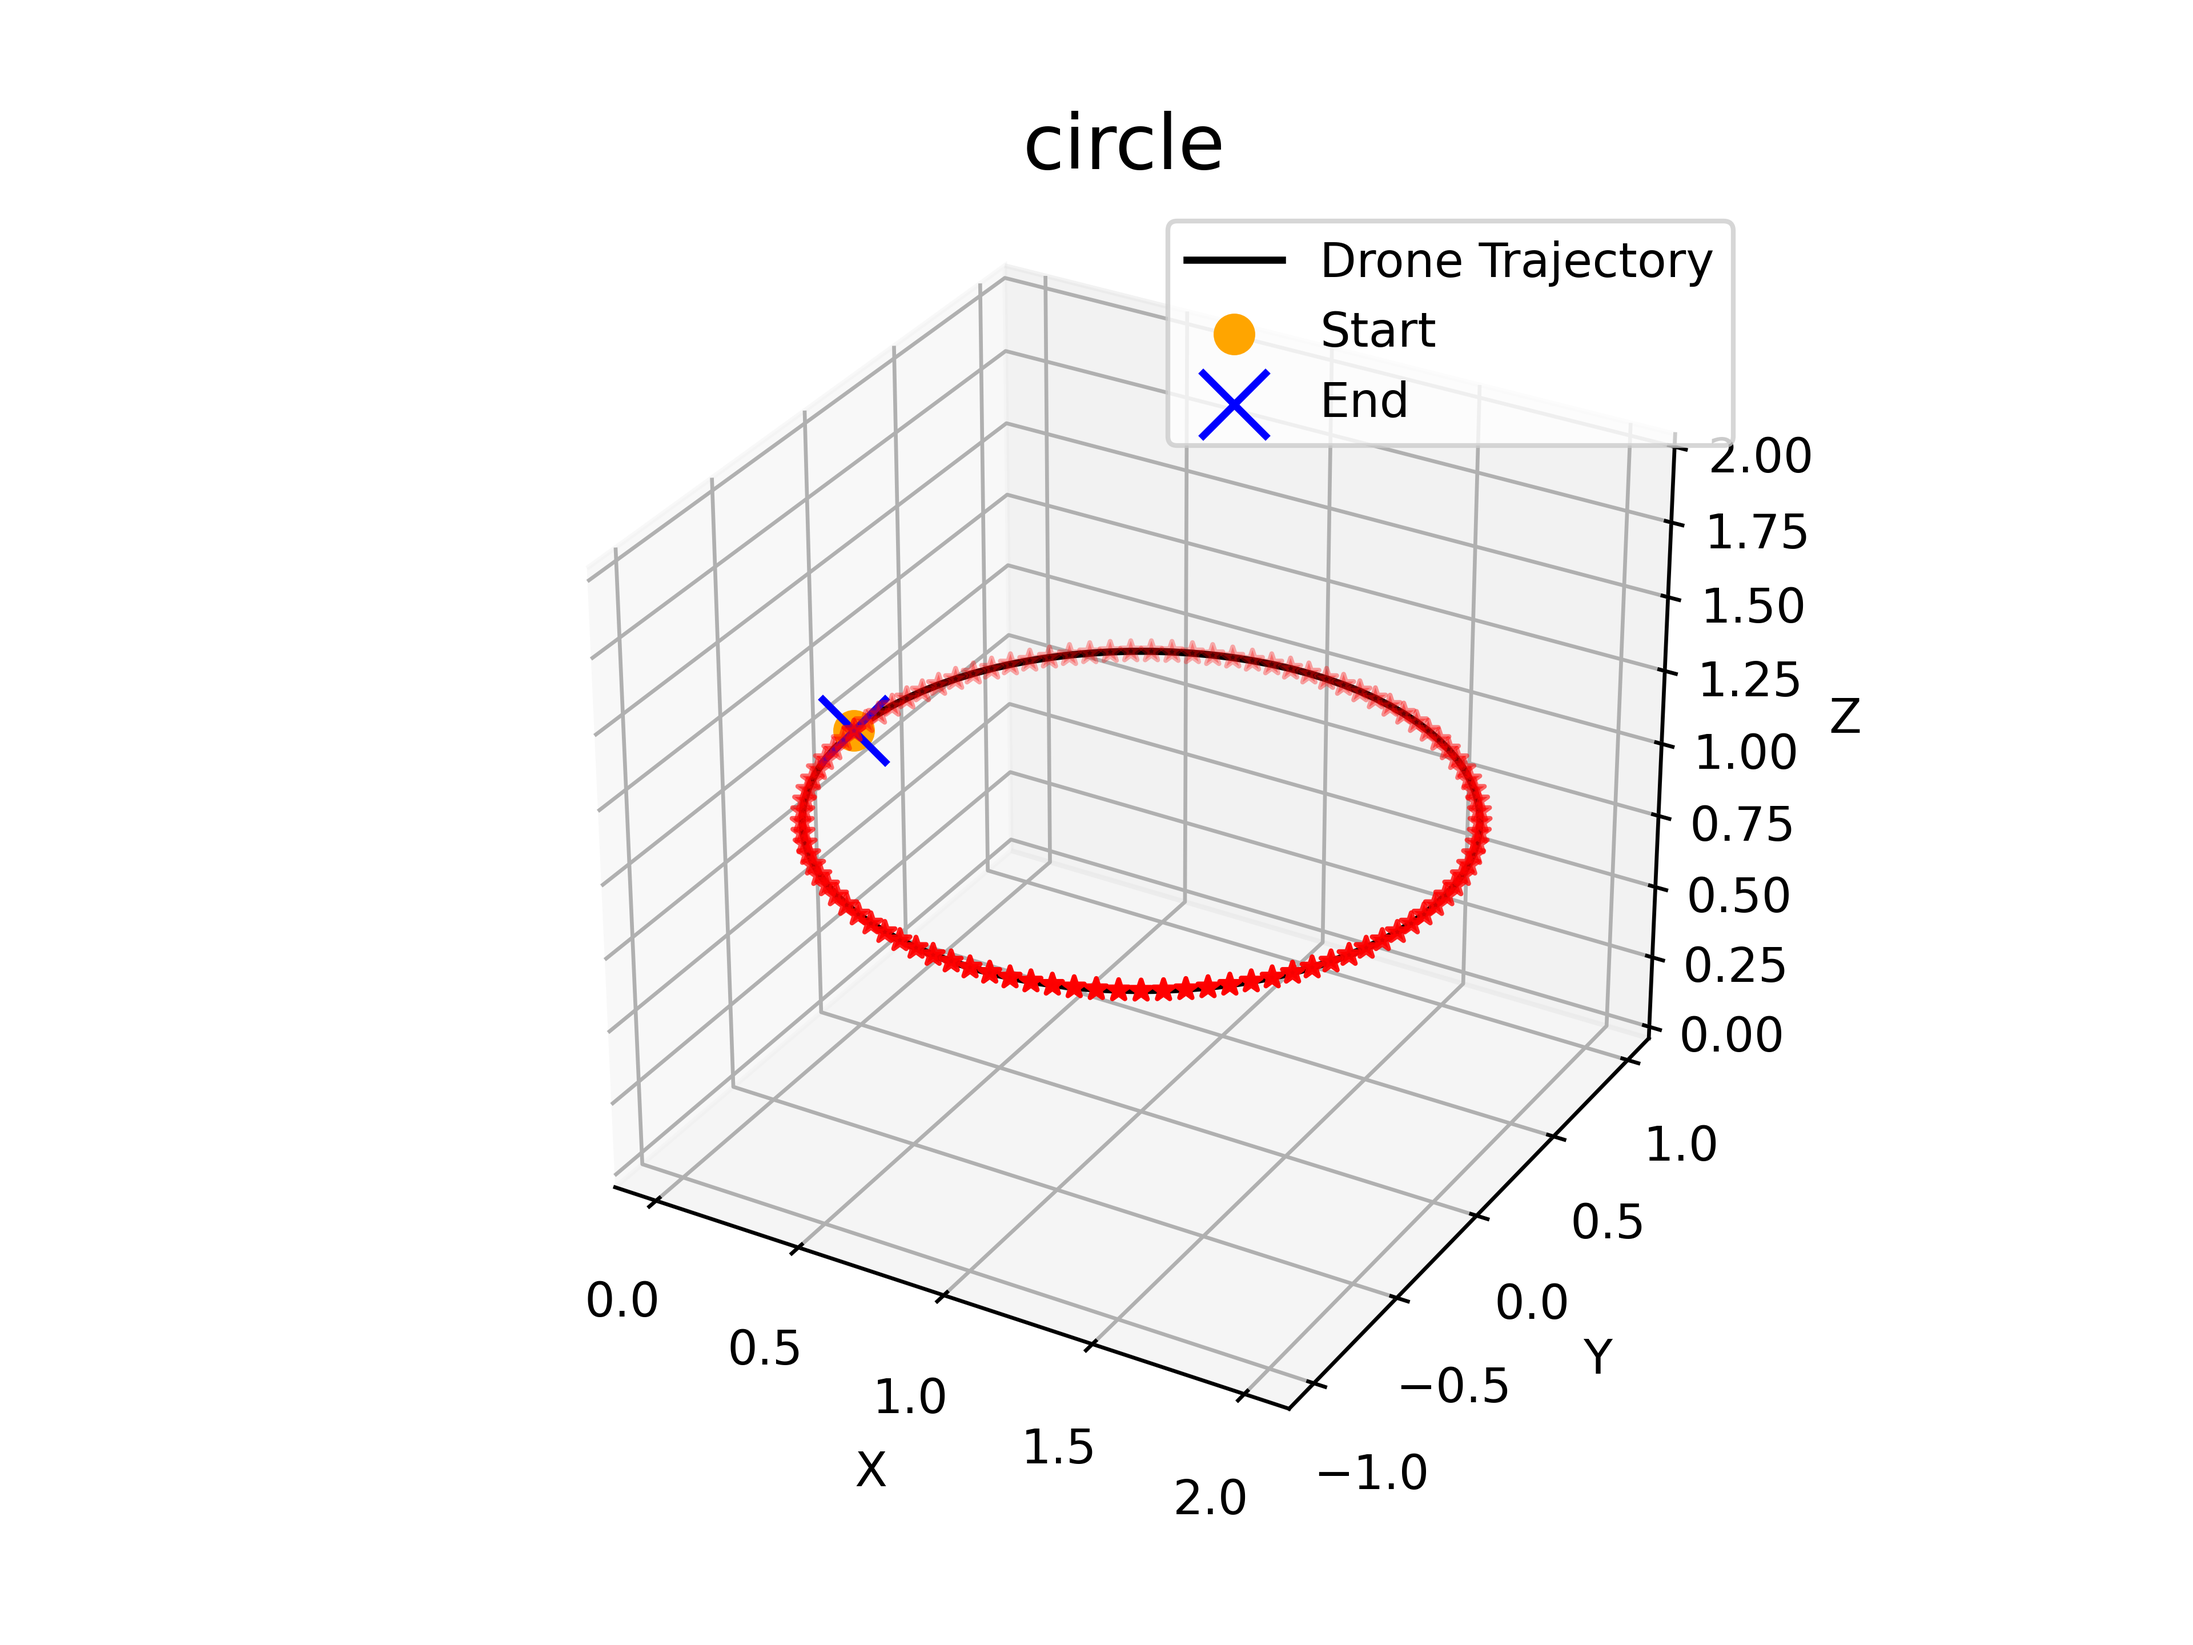
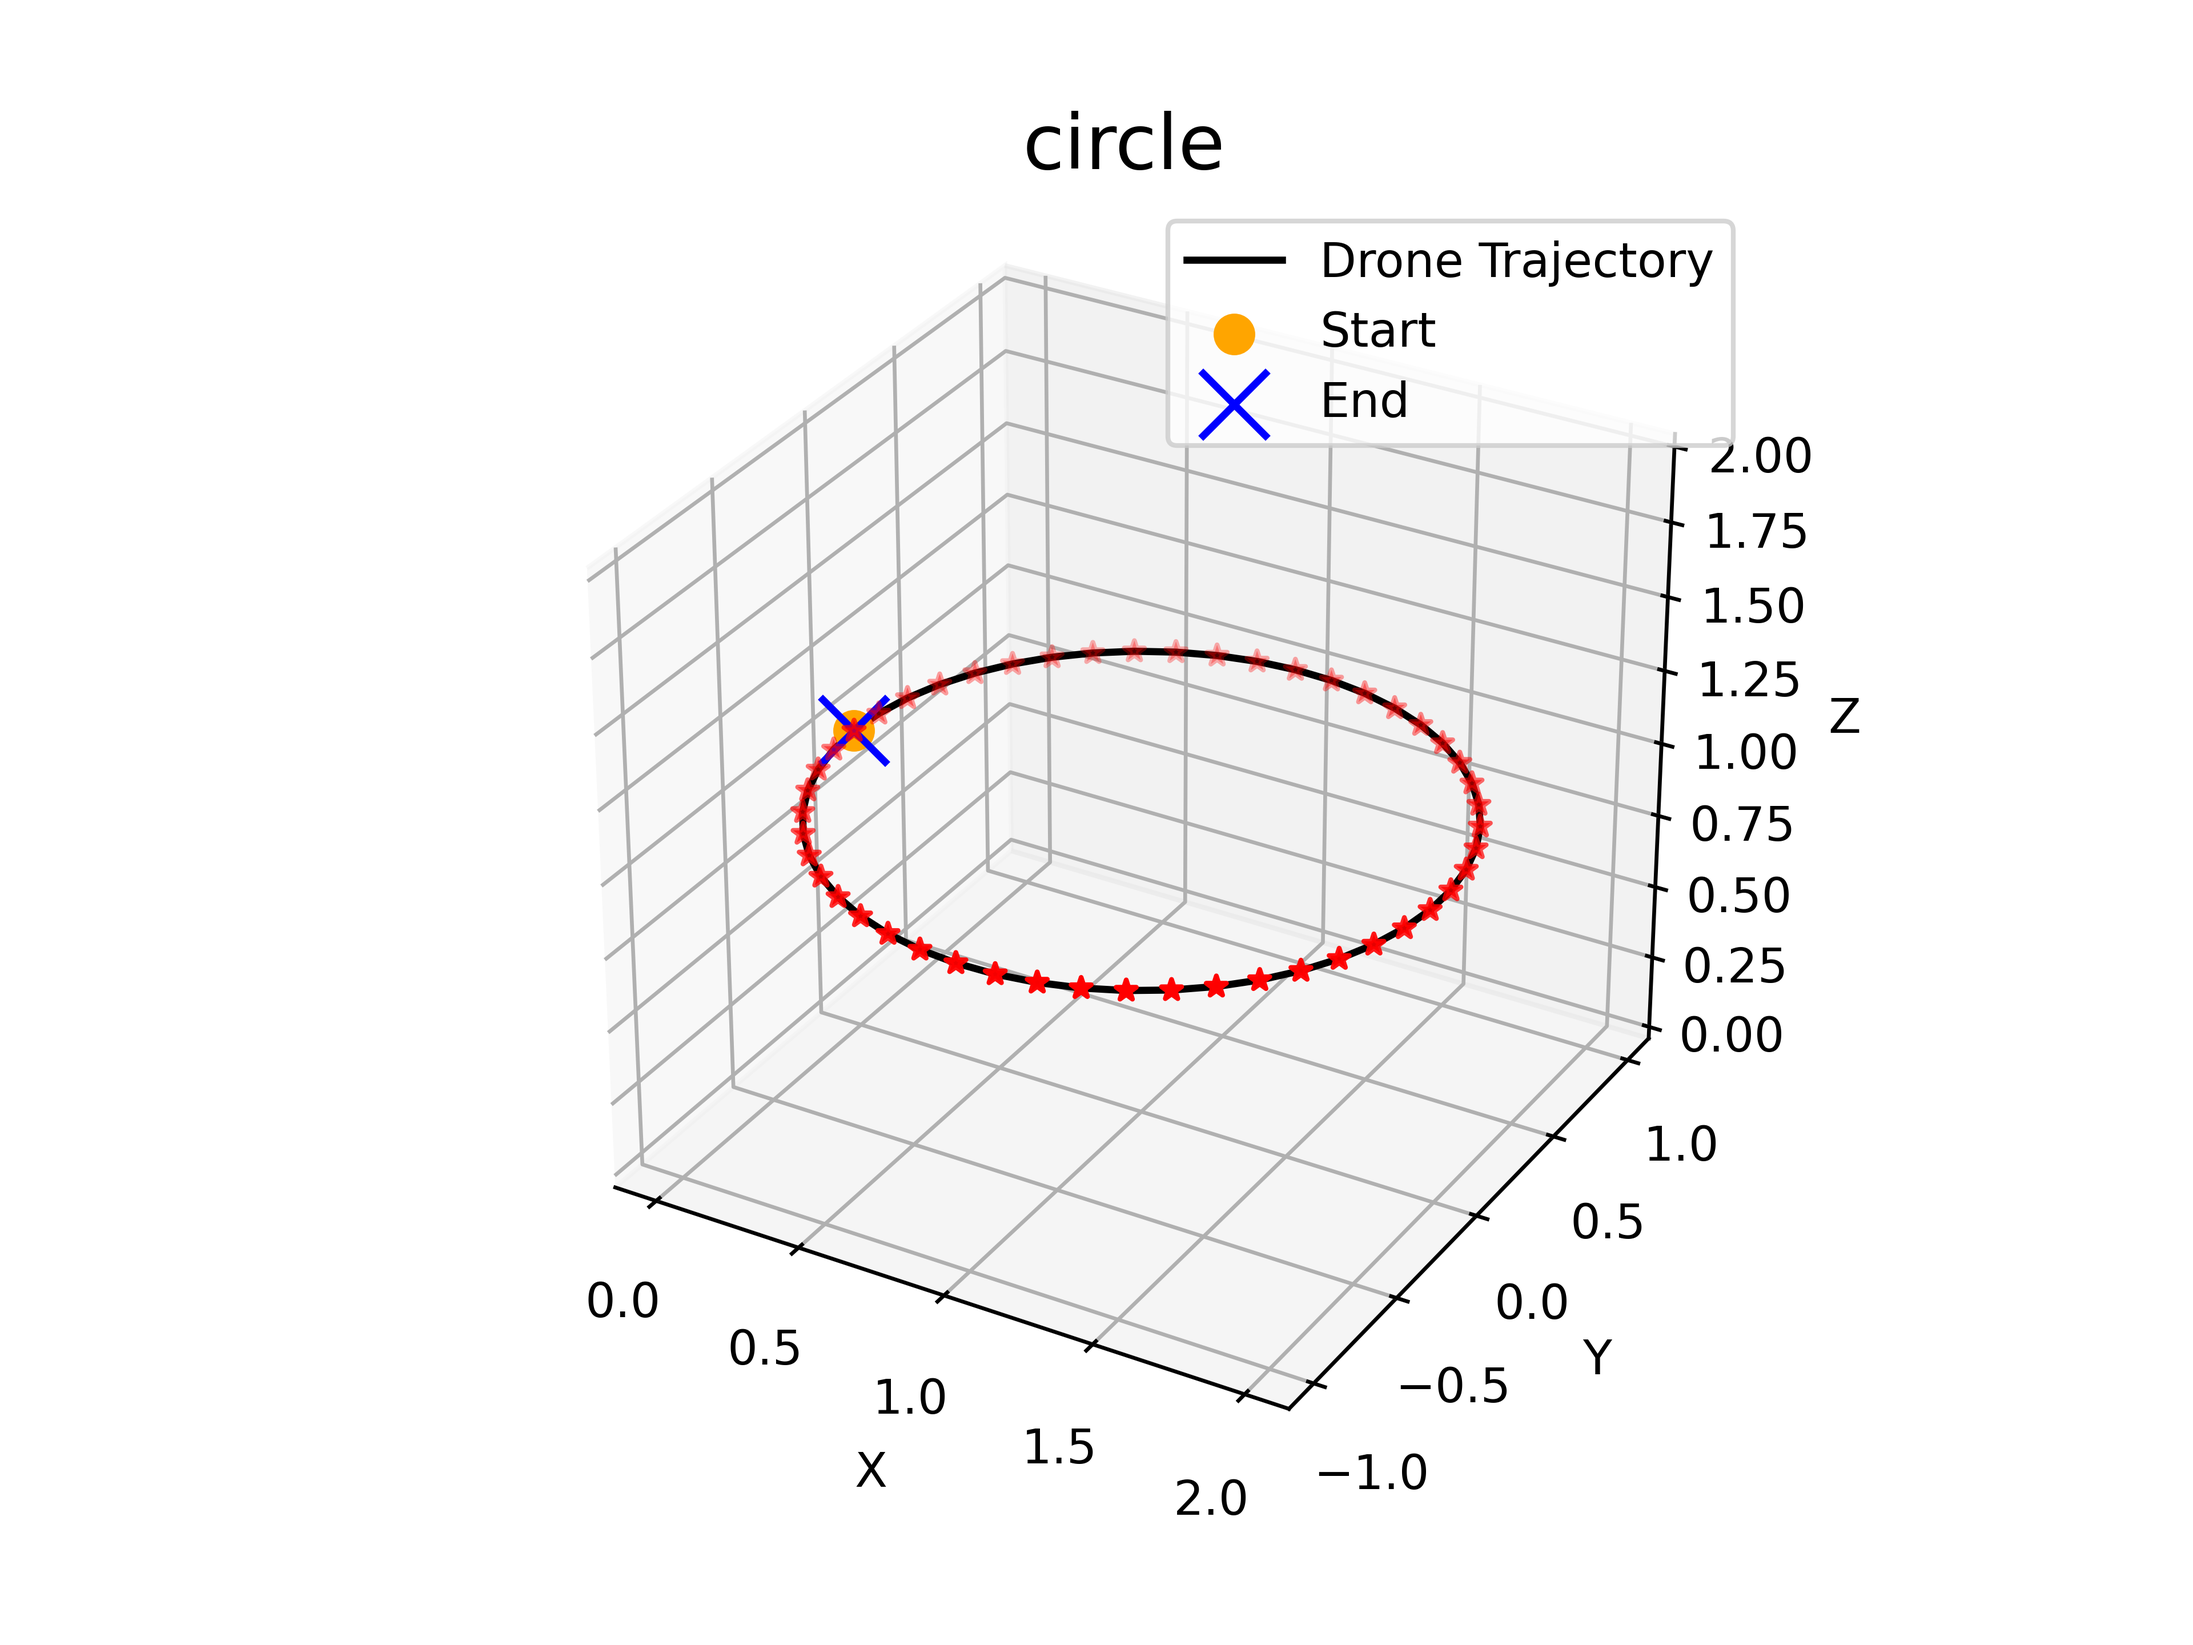
1

diff --git a/isaacgymenvs/tasks/trajectory/circle.py b/isaacgymenvs/tasks/trajectory/circle.py
@@ -50,7 +50,7 @@ def plot_3d_trajectory(x, y, z):
     plt.show()
 
 
-num_points = 100
+num_points = 50
 x, y, z = generate_circle_points(num_points)
 
 # plot_2d_trajectory(x, y)
